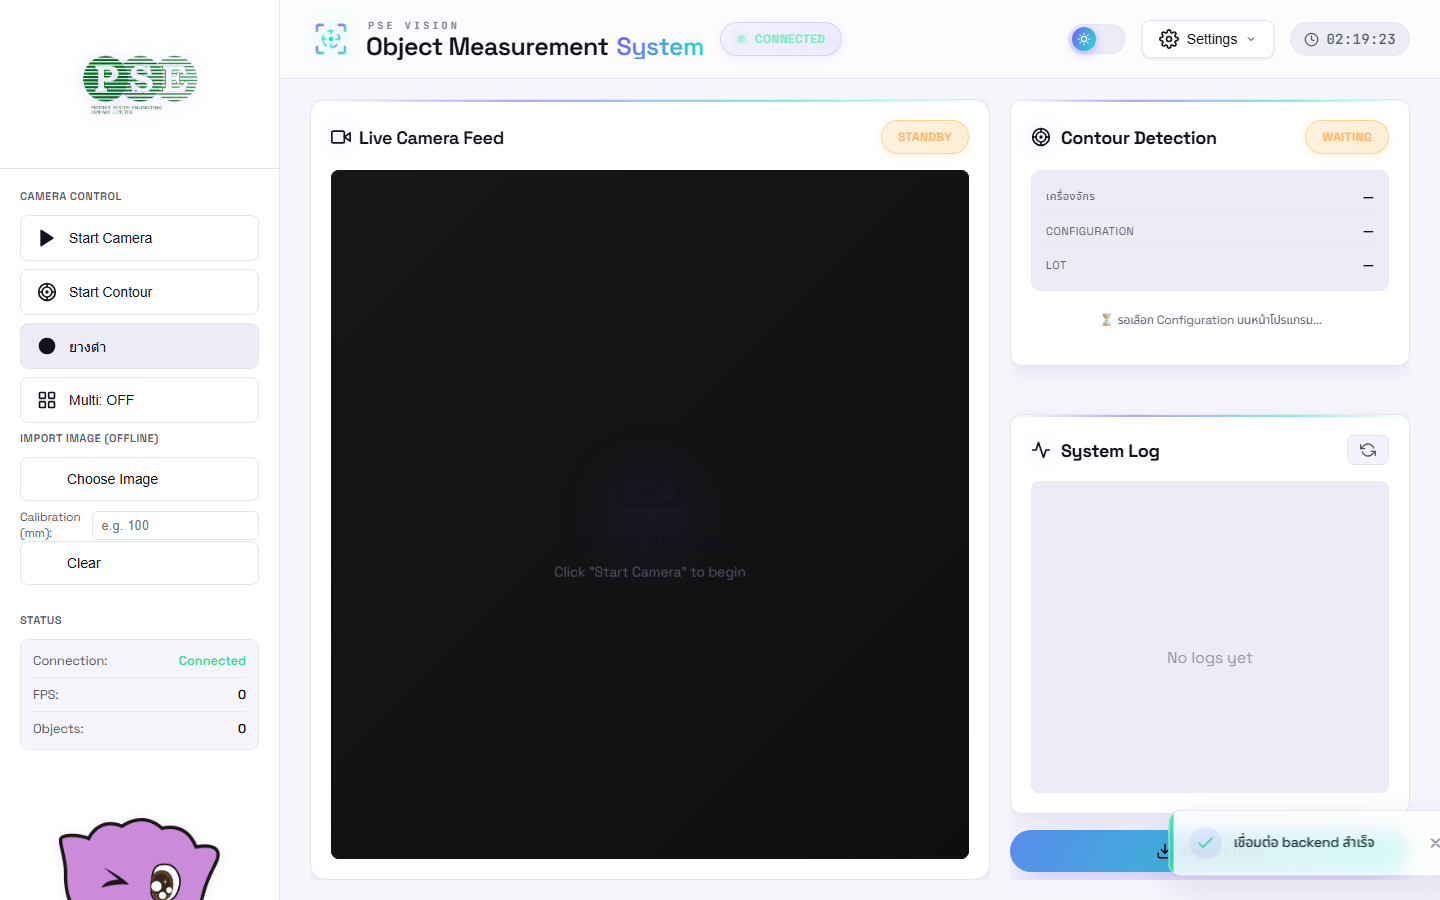
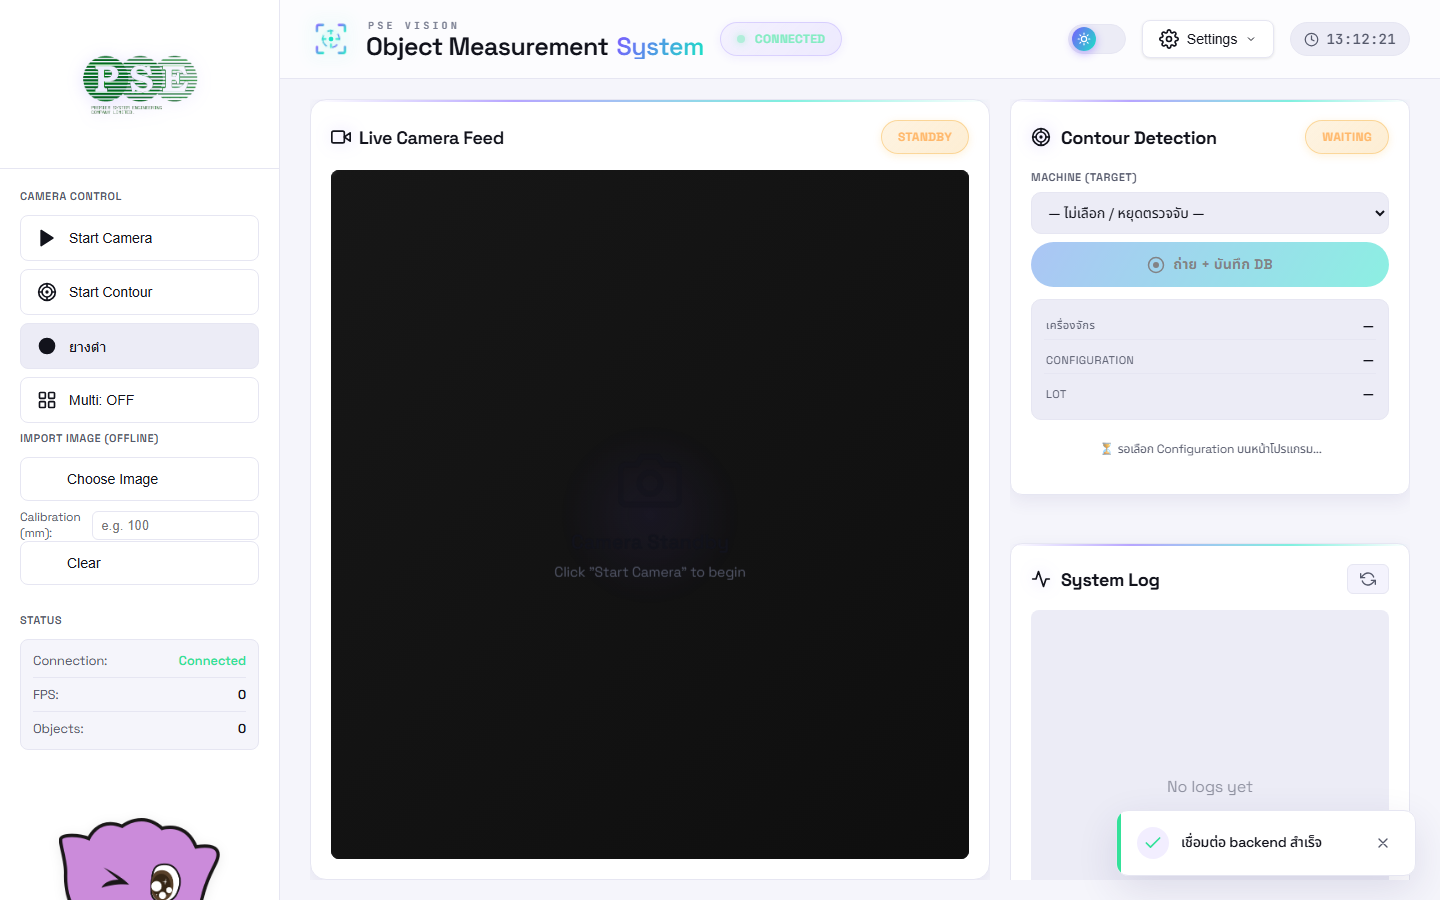
Update user manual for web machine/target selector + capture button
New detection section: pick a machine (its size target) from the Contour
Detection card on the web, plus the Capture + save-to-DB button. Refresh
overview screenshot and add 10_detection_web.png; rebuild the .docx.

diff --git a/docs/build_manual_docx.py b/docs/build_manual_docx.py
@@ -97,17 +97,23 @@ bullet('Clear — ล้างภาพ')
 p('หมายเหตุ: ถ้าขึ้น "No OAK camera detected" ให้ตรวจสายกล้อง USB/PoE หรือตั้ง IP กล้องในหน้า Settings')
 
 # ---------- 3 ----------
-h1('3. การตรวจจับ (Contour Detection)')
-p('ที่ Sidebar → CAMERA CONTROL (ต้องเปิดกล้องก่อน):', bold=True)
-num('กด "Start Contour" เพื่อเริ่มตรวจจับ contour (แยกวัตถุจากพื้นหลัง แล้วตีกรอบ ROI)')
-num('ปุ่ม "ยางดำ / ยางขาว" — สลับชนิดวัสดุ (ยางดำ = พื้นขาว-วัตถุดำ, ยางขาว = พื้นดำ-วัตถุขาว) '
-    '[กดได้เมื่อเปิดกล้อง + เปิด Contour แล้ว]')
-num('ปุ่ม "Multi: OFF/ON" — เปิดตรวจจับหลายวัตถุพร้อมกัน')
-p('ผลลัพธ์แสดงที่แผงขวา (Contour Detection):', bold=True)
-bullet('เครื่องจักร / Configuration / LOT — การตั้งค่าที่กำลังใช้งาน')
-bullet('Target Area / Tolerance — เกณฑ์ขนาดที่ยอมรับ')
-bullet('สถิติ 3 ระดับ: Total (ทั้งหมด), Pass (ผ่าน), Near (ใกล้เคียง), Fail (ไม่ผ่าน)')
-p('กรอบ ROI บนภาพสดแสดงสี: เขียว = ผ่าน, เหลือง = ใกล้เคียง, แดง = ไม่ผ่าน')
+h1('3. การตรวจจับ (Contour Detection) - เลือกเครื่องจักรผ่านหน้าเว็บ')
+p('ทำได้บนหน้าเว็บทั้งหมด ไม่ต้องใช้โปรแกรม Desktop - ที่การ์ด Contour Detection ด้านขวา', bold=True)
+img('10_detection_web.png')
+num('กด "Start Camera" (Sidebar) ให้ภาพขึ้นก่อน')
+num('ที่การ์ด Contour Detection -> ช่อง "Machine (Target)" -> เลือกเครื่องจักร '
+    '(แต่ละเครื่องมีขนาดเป้าหมายในตัว พอเลือกก็เริ่มตรวจจับทันที เช่น "CUTT Line A (600-1200 mm2)")')
+num('เลือก "— ไม่เลือก / หยุดตรวจจับ —" = หยุดตรวจจับ')
+num('(เสริมที่ Sidebar) ปุ่ม "ยางดำ/ยางขาว" สลับชนิดวัสดุ, "Multi: ON" ตรวจหลายวัตถุ')
+p('ผลลัพธ์ที่การ์ด Contour Detection:', bold=True)
+bullet('เครื่องจักร / Target Area / Tolerance - เป้าหมายที่ใช้ตัดสิน')
+bullet('สถิติ: Total, Pass, Near, Fail')
+bullet('กรอบ ROI บนภาพสด: เขียว = ผ่าน, เหลือง = ใกล้เคียง, แดง = ไม่ผ่าน')
+p('หมายเหตุ: เครื่องจักรต้องตั้ง Area Config (min/max mm2) ก่อน ที่ Settings -> Machines (ดูข้อ 6)')
+p('ปุ่ม "ถ่าย + บันทึก DB":', bold=True)
+bullet('อยู่ใต้ dropdown - ถ่ายภาพพร้อมกรอบ ROI แล้วบันทึกผลลงฐานข้อมูล')
+bullet('ใช้ได้เมื่อเลือกเครื่องจักรแล้ว (กำลังตรวจจับ)')
+bullet('ต้องเปิด Settings -> Database -> Enable Database Storage ก่อน ถึงจะบันทึกลง DB')
 
 # ---------- 4 ----------
 h1('4. การคาลิเบรตขนาด (Calibration)')

diff --git a/docs/USER_MANUAL.md b/docs/USER_MANUAL.md
@@ -50,23 +50,30 @@
 
 ---
 
-## 3. การตรวจจับ (Contour Detection)
+## 3. การตรวจจับ (Contour Detection) — เลือกเครื่องจักรผ่านหน้าเว็บ
 
-ที่ **Sidebar → CAMERA CONTROL** (ต้องเปิดกล้องก่อน):
+ทำได้บนหน้าเว็บทั้งหมด (ไม่ต้องใช้โปรแกรม Desktop) ที่การ์ด **Contour Detection** ด้านขวา
 
-1. กด **◎ Start Contour** เพื่อเริ่มตรวจจับ contour (แยกวัตถุออกจากพื้นหลัง แล้วตีกรอบ ROI)
-2. ปุ่ม **ยางดำ / ยางขาว** — สลับชนิดวัสดุให้ตรงกับงาน
-   - **ยางดำ** = พื้นขาว–วัตถุดำ
-   - **ยางขาว** = พื้นดำ–วัตถุขาว
-   - *(กดได้เมื่อเปิดกล้อง + เปิด Contour แล้วเท่านั้น)*
-3. ปุ่ม **Multi: OFF/ON** — เปิดตรวจจับ **หลายวัตถุพร้อมกัน**
+![เลือกเครื่องจักร + ตรวจจับ](manual_img/10_detection_web.png)
 
-**ผลลัพธ์แสดงที่แผงขวา (Contour Detection):**
-- **เครื่องจักร / Configuration / LOT** — การตั้งค่าที่กำลังใช้งาน
-- **Target Area / Tolerance** — เกณฑ์ขนาดที่ยอมรับ
-- **สถิติ 3 ระดับ:** Total (ทั้งหมด) · ✓ Pass (ผ่าน) · ▲ Near (ใกล้เคียง) · ✗ Fail (ไม่ผ่าน)
+1. กด **▶ Start Camera** (Sidebar) ให้ภาพขึ้นก่อน
+2. ที่การ์ด **Contour Detection** → ช่อง **Machine (Target)** → **เลือกเครื่องจักร**
+   - แต่ละเครื่องจักรมี **ขนาดเป้าหมาย (Target Area) ในตัว** → พอเลือกก็เริ่มตรวจจับทันที
+   - dropdown จะโชว์เกณฑ์ เช่น `CUTT Line A (600–1200 mm²)`
+   - เลือก **"— ไม่เลือก / หยุดตรวจจับ —"** = หยุด
+3. (เสริมที่ Sidebar) ปุ่ม **ยางดำ / ยางขาว** สลับชนิดวัสดุ, **Multi: ON** ตรวจหลายวัตถุ
 
-กรอบ ROI บนภาพสดจะแสดงสี: **เขียว = ผ่าน, เหลือง = ใกล้เคียง, แดง = ไม่ผ่าน**
+**ผลลัพธ์แสดงที่การ์ด Contour Detection:**
+- **เครื่องจักร / Target Area / Tolerance** — เป้าหมายที่กำลังใช้ตัดสิน
+- **สถิติ:** Total · ✓ Pass · ▲ Near · ✗ Fail
+- กรอบ ROI บนภาพสด: **เขียว = ผ่าน, เหลือง = ใกล้เคียง, แดง = ไม่ผ่าน**
+
+> 💡 เครื่องจักรต้องตั้ง **Area Config (min/max mm²)** ก่อน ที่ **Settings → Machines** (ดูข้อ 6)
+
+### ปุ่ม "ถ่าย + บันทึก DB"
+กดปุ่ม **ถ่าย + บันทึก DB** (ใต้ dropdown) เพื่อ **ถ่ายภาพพร้อมกรอบ ROI + บันทึกผลลงฐานข้อมูล**
+- ใช้ได้เมื่อเลือกเครื่องจักรแล้ว (กำลังตรวจจับ)
+- ต้องเปิด **Settings → Database → Enable Database Storage** ก่อน ถึงจะบันทึกลง DB
 
 ---
 